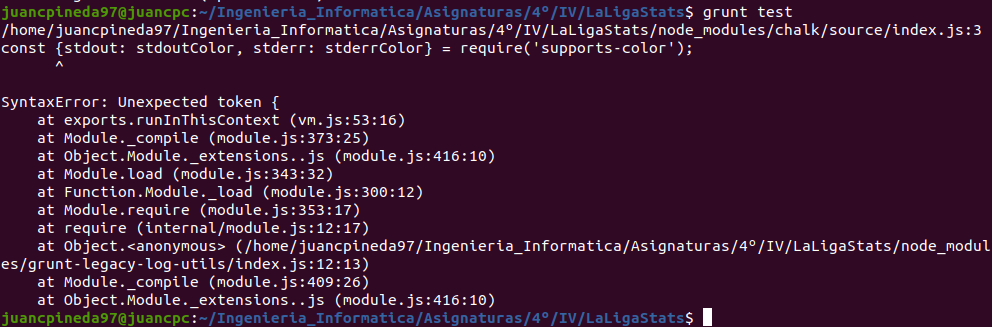
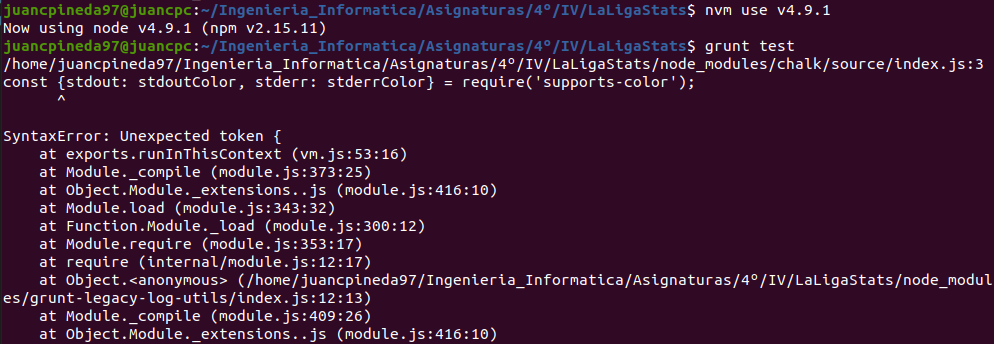
Completa ejercicio 6 closes #13

Changed region(s): [[0.0, 0.0, 1.0, 1.0]]

diff --git a/ejercicios/tema4.md b/ejercicios/tema4.md
@@ -76,3 +76,23 @@ Como se puede ver en la siguiente captura, ya tendría instaladas en mi sistema 
 ### Como ejercicio, algo ligeramente diferente: un servicio web para calificar las empresas en las que hacen prácticas los alumnos.
 
 Puesto que se puede realizar con otra aplicación, lo realizaré con mi aplicación de la asignatura: [LaLigaStats](https://github.com/juancpineda97/LaLigaStats)
+
+
+## Ejercicio #6
+### Ejecutar el programa en diferentes versiones del lenguaje. ¿Funciona en todas ellas?
+
+Aprovechando que he instalado diferentes versiones de node en los ejercicios anteriores, voy a probar a ejecutar mi aplicación con éstas:
+
+- **v0.11.9**
+
+![screenshot_T4_E6_1.png](capturas/screenshot_T4_E6_1.png)
+
+- **v4.9.1**
+
+![screenshot_T4_E6_2.png](capturas/screenshot_T4_E6_2.png)
+
+- **15.2.1**
+
+![screenshot_T4_E6_3.png](capturas/screenshot_T4_E6_3.png)
+
+Como se puede apreciar, de las versiones probadas, mi aplicación sólo funciona con la versión **15.2.1**
